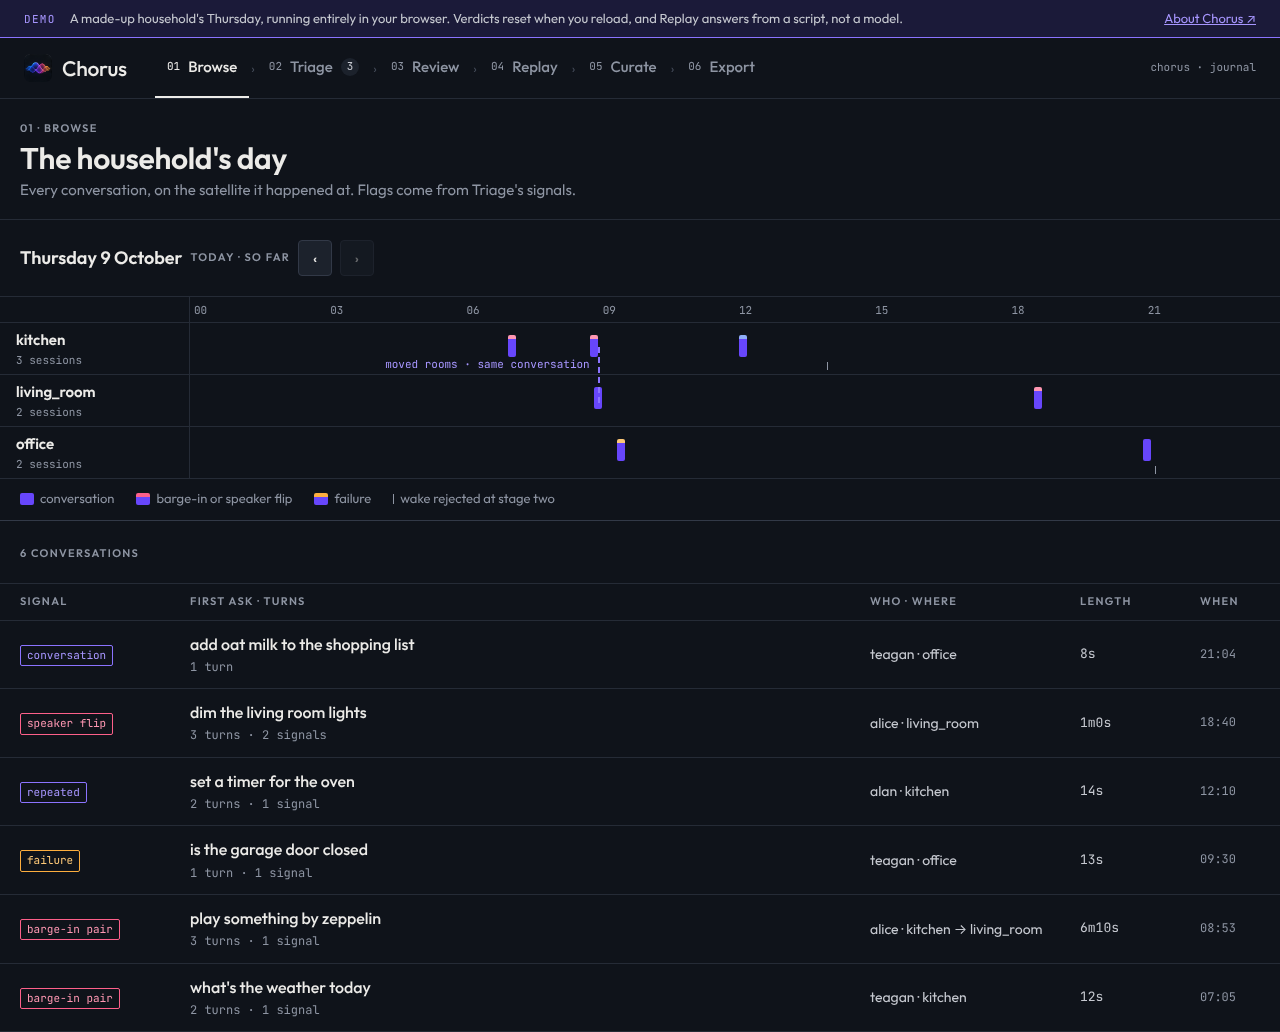
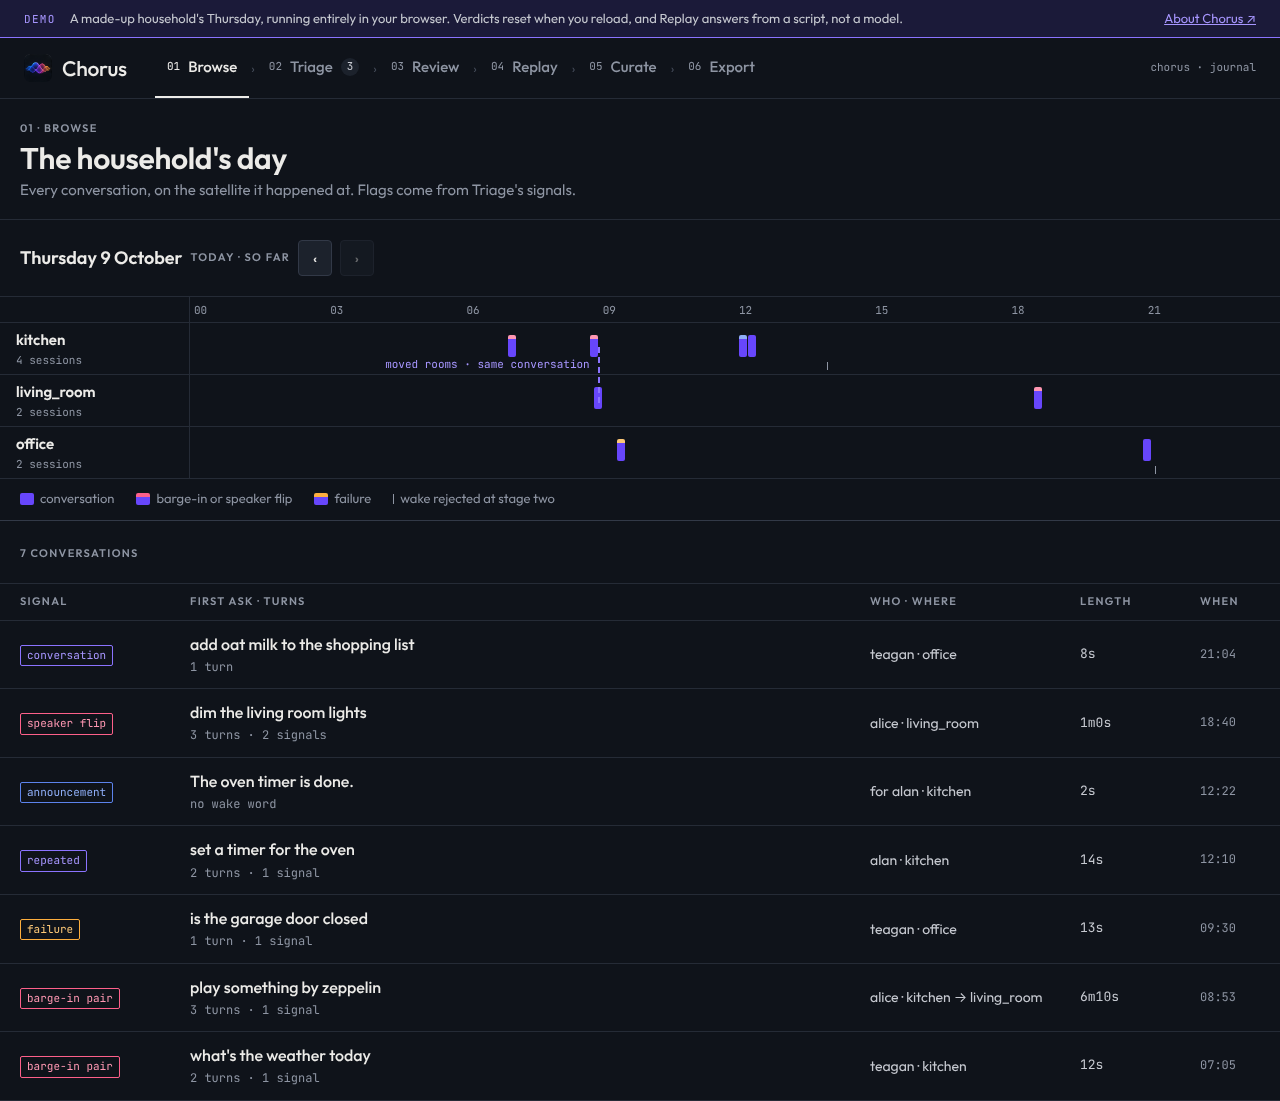
docs: ADR-0045, timers and announcements land in SPEC §14
Refreshes the Browse screenshots for the oven going off, and adds the
announcement to the review UI guide.

Claude-Session: https://claude.ai/code/session_01MT6BUSpiYFjdCDZKuiQ1yt

diff --git a/docs/adr/0045-timers-belong-to-the-house-and-an-announcement-is-a-session-with-no-wake-word.md b/docs/adr/0045-timers-belong-to-the-house-and-an-announcement-is-a-session-with-no-wake-word.md
@@ -1,0 +1,155 @@
+# 0045. Timers belong to the house, and an announcement is a session with no wake word
+
+- **Status:** accepted
+- **Source:** SPEC §4, §4.2, §4.5, §7, §8, §14 · ADR-0003, ADR-0022, ADR-0038
+
+SPEC §14 left two Phase 2 items: timers, and announcements with
+`start_conversation`. They share a problem. Both speak on a satellite when
+nobody there asked. SPEC §4 already says what that is: proactive speech is
+a session with no wake word. This ADR says how such a session opens and
+closes. It also says where a timer lives between being set and going off.
+
+```go
+import (
+	"github.com/teaganglenn/chorus/internal/journal"
+	"github.com/teaganglenn/chorus/internal/session"
+	"github.com/teaganglenn/chorus/internal/timer"
+)
+
+// What the kitchen is given when Alan's oven timer goes off: what to say,
+// why, and who set it where.
+func ovenGoesOff(t journal.Timer) session.Announcement {
+	return session.Announcement{
+		Text: timer.Says(t), Source: session.SourceTimer, TimerID: t.ID,
+		RequestedBy: t.Person, FromSatellite: t.Satellite, FromConversation: t.ConversationID,
+	}
+}
+```
+
+## Timers
+
+**A timer belongs to the house, not the conversation.** Alan sets the oven
+timer and walks away. The conversation ends, and the timer has to go off
+anyway. So `timer_started`, `timer_cancelled` and `timer_finished` go to a
+log of their own, `house:timers` (`journal.HouseTimers`). The reducer folds
+it like any other log: `State.Timers` lists each timer and its status,
+`State.Running()` lists the ones still running. A timer started twice, or
+ended twice, is a contradiction, so replay fails on it.
+
+**The log is the schedule.** At startup, `timer.Start` replays the house
+log and arms every running timer on the injected clock. A timer set before
+a restart still goes off at its `fires_at`, an absolute UTC instant
+recorded when it was set. SPEC §14 still defers session survival across a
+restart. A timer survives because it was never a session's.
+
+**It goes off where it was set.** `timer_finished` records the outcome:
+
+- `announced`, with the conversation it was said in.
+- `unannounced`, when the satellite was gone or the announcement failed.
+  A satellite that is not connected is asked again every 5 s
+  (`timer.RetryEvery`), so a kitchen that redials after a restart still
+  hears it, a few seconds late.
+- `missed`, when the timer came due more than 5 minutes ago
+  (`timer.DefaultGrace`). That only happens while chorusd was down. An
+  oven timer read out half an hour late is worse than none.
+
+Triage raises a failure on anything but `announced` (SPEC §7). A timer
+nobody heard is a failure the household felt. The failure's utterance is
+what the timer was for, and its speaker is who set it.
+
+**Three tools.** All three detach, because setting or cancelling takes
+effect the moment it is called. A barge-in keeps the result.
+
+- `timer_start` takes seconds (up to 24 hours), a label and the sentence
+  to say. Its result tells the model the id, the seconds left and what will
+  be said.
+- `timer_cancel` takes the id. A timer already going off cannot be
+  cancelled; the call says so rather than claim it was stopped.
+- `timer_list` lists every running timer in the house, with the seconds
+  left, not a clock time.
+
+The default sentence is *The oven timer is done.*, from the label, or
+*Your timer is done.* with none.
+
+## Announcements
+
+**An announcement opens a session with no wake word.**
+`Supervisor.Announce` opens it on a satellite, with `announced` set on
+`session_opened`. `announcement_made` records what is said, why
+(`timer` or `request`), and who asked from where. The speak call that says
+it follows. The model is not asked anything, and the words are its own, so
+the session has nothing to think about. It plays them and closes as
+`announced` once they have played. If an announcement on a satellite that
+is already speaking queues behind the first, both play before the close.
+
+**`start_conversation` hands the room the mic.** An announcement that asks
+a question leaves its session open, and the mic feeds it as if someone had
+woken it. Whoever answers is heard in that conversation with no wake word.
+The silence backstop closes it if nobody does (SPEC §4.5). The model is
+told what it said, and whose question it carried. Ollama sees
+`"announcement"` on that entry: its source, timer, who asked, from where,
+and whether an answer is expected.
+
+**One speaker, one speaking session.** A satellite with a session open
+says the announcement in that session, queued behind whatever it is
+saying (SPEC §4.2). The person in the room hears the timer, and their next
+ask knows it went off. An announcement plays even after a barge-in cut the
+turn's speech. The cut silences the turn it interrupted, not the house.
+On a quiet satellite, a second announcement joins the first's session
+until it closes.
+
+**The mic is not a timer's to hear.** While a session that only announces
+is speaking, a wake word on that satellite is ignored. Its words would
+otherwise answer nothing. Once the announcement has played, the satellite
+wakes as it always does. A wake that confirms during an announcement waits
+for it to finish, so the person's session opens on a silent speaker.
+
+**`announce` is the tool.** It takes the text, a room (matched to a
+satellite's room or name, ignoring case) and `start_conversation`. With no
+room it is a broadcast: every satellite but the one it was asked on. The
+result names the rooms that heard it and the ones that are not connected.
+An unknown room is refused with the rooms there are.
+
+**Announcements are not turns.** An announcement's first frame is not a
+turn's first audio, so the household's wait for an answer is not measured
+off a timer (SPEC §11). Harvest and the re-runner skip announced speak
+calls: no turn chose those words, so they are no side of a pair. The
+summary of a conversation says what was said unasked, and why.
+
+## The review UI
+
+Browse lists an announcement as its own conversation, tagged
+*announcement*, named by what it said and whom it was for. Its log shows
+the session opening to announce, why it was said, the clip and the close.
+The house log is no conversation and is not listed. Its events appear
+in the conversation they name, beside the events around them: the timer
+being set after the `timer_start` call, and its going off in the session
+that said it. A timer nobody heard opens the house log from Triage.
+
+## Considered and rejected
+
+- **A timer per conversation.** It would end with the conversation, or the
+  conversation would have to outlive everyone in it.
+- **Home Assistant's timer entities.** They need a helper per timer,
+  created ahead of time, and report going off to HA, not to the satellite
+  that heard the ask. Chorus would still need its own way to speak.
+- **Asking the model what to say when a timer goes off.** A model call
+  between the timer and the speaker adds latency, and a timer already
+  carries its sentence.
+- **Opening a second session on a busy satellite.** Two sessions would
+  speak over each other on one speaker.
+- **Saying a missed timer whenever chorusd comes back.** *The oven timer
+  is done* an hour late sends someone to a burnt oven.
+
+## Forecloses
+
+- **Timers are not shared to Home Assistant.** An HA dashboard does not
+  show them, and an HA automation cannot react to one.
+- **A timer goes off only where it was set.** Moving rooms does not move
+  it; the conversation follows the person, the timer does not.
+- **Announcements are not interruptible by a wake word.** A barge-in still
+  cuts one in a woken session. On a quiet satellite, a long announcement
+  plays out.
+- **The tool descriptions are unmeasured.** The models tier asks qwen3:14b
+  to set the oven timer, cancel it by id, and ask the kitchen a question.
+  It has not run where this was written, which has no Ollama endpoint.

diff --git a/docs/reviewui/README.md b/docs/reviewui/README.md
@@ -120,6 +120,17 @@ audio is its own row, saying how long the person waited.
 
 ![Conversation, first audio](conversation-first-audio.png)
 
+A timer going off, or someone asking for something to be said in another
+room, opens a session with no wake word (ADR-0045). Browse lists it as an
+*announcement*, named by what it said and whom it was for. Its log says why
+it was said. Timers live in the household's own log, `house:timers`, which
+Browse does not list. Its events appear in the conversations they name, as
+`house #N` rows: the timer being set beside the `timer_start` call, and its
+going off in the session that said it. A timer nobody heard is a failure in
+Triage, which opens the house log at the event.
+
+![An announcement: the oven timer going off](e2e/journey-oven-goes-off.png)
+
 ### Triage
 
 ![Triage](triage.png)
@@ -258,7 +269,8 @@ reviewer through a whole day, start to finish:
 - cancel and undo leave no verdict behind;
 - Review walks every cut in turn;
 - every Triage signal opens where it happened;
-- Browse follows a person across satellites and walks back through the days.
+- Browse follows a person across satellites and walks back through the days;
+- the oven timer goes off in an empty kitchen, and is shown set where it was.
 
 ![Journey: Browse today](e2e/journey-browse-today.png)
 ![Journey: editing the chosen side](e2e/journey-review-editing.png)

diff --git a/docs/adr/README.md b/docs/adr/README.md
@@ -53,6 +53,7 @@ decision rather than by clause: facets of one choice share one record.
 | [0042](0042-a-turn-that-ends-on-a-dangling-word-is-held.md) | Smart Turn's "finished" is checked against the words; a turn ending on *for*, *the*, *and* or a filler is held | §4.5, §11 |
 | [0043](0043-each-conversation-is-summarized-for-the-people-in-it-and-each-turn-is-told-the-time.md) | Each conversation is summarized for the people in it when it ends; each turn is told the time and the last week's conversations | §5, §8 |
 | [0044](0044-recall-chooses-by-relevance-and-recency-when-more-is-kept-than-a-turn-is-told.md) | Refines 0040 and 0043: past twenty memories or five conversations, an embedding model and recency choose what a turn is told | §5, §8, §11 |
+| [0045](0045-timers-belong-to-the-house-and-an-announcement-is-a-session-with-no-wake-word.md) | Timers belong to the house, in a log of their own; an announcement is a session with no wake word, answerable with `start_conversation` | §4, §4.2, §7, §8 |
 | [0046](0046-a-turn-that-calls-nothing-has-its-answer-spoken-from-its-content.md) | A turn that calls nothing, with its reasoning in the thinking field, has its content spoken when it ends | §4.1, §5 |
 
 SPEC §15, the decisions that cannot be retrofitted, maps to ADRs 0003, 0005,

diff --git a/README.md b/README.md
@@ -51,6 +51,7 @@ satellite. What exists today:
 | endpointing — `listen.Semantic` over `internal/provider/smartturn` and `sidecars/smartturn` (Smart Turn v3.2 on ONNX) | ends a turn ~340 ms after the last word on CPU; right on 76 of 88 synthetic household takes, not yet measured on recorded speech |
 | `internal/hass` — the one real tool (SPEC §14 item 5) | verified against Home Assistant 2026.10; unlocking a door or disarming the alarm waits for a yes |
 | `internal/listen` — the Listening child: mic stream to utterances, barge-in candidates, attribution | under test |
+| `internal/timer`, `internal/announce` — timers that go off where they were set, and announcements to other rooms, answerable with no wake word | under test; timers survive a restart |
 | `internal/harvest`, `cmd/harvest` — barge-ins as DPO candidates | under test |
 | `cmd/reviewui` — Browse, Triage, Review, Replay, Curate and Export over the journal ([guide](docs/reviewui/README.md), [demo](https://teagan42.github.io/Chorus/demo/)) | under test, in a headless Chrome too |
 | `internal/triage` — barge-ins, failures, repeated asks, slow answers and speaker flips, derived on read | under test |

diff --git a/docs/SPEC.md b/docs/SPEC.md
@@ -548,8 +548,9 @@ Phase 1's pieces run together in `chorusd` against the in-process satellite
 - MCP provider
 - ~~Confirmation gates~~ **Done — ADR-0038, ADR-0041.** Garage, gate and door
   covers are held by the class Home Assistant gives them.
-- Timers
-- Announcements with `start_conversation`
+- ~~Timers~~ **Done — ADR-0045.** A timer belongs to the house, outlives the
+  conversation and the process, and goes off where it was set.
+- ~~Announcements with `start_conversation`~~ **Done — ADR-0045.**
 - ~~Semantic endpointing~~ **Done — ADR-0036.**
 - Wake-word retraining from the harvested negative corpus
 - Near-miss buffer if false rejects surface

diff --git a/CONTRIBUTING.md b/CONTRIBUTING.md
@@ -272,6 +272,8 @@ internal/
   blob/                 the audio a journal event refers to
   registry/             generated tool registry and policy (SPEC §6)
   hass/                 Home Assistant tools
+  timer/                the household's timers, and the tools that set them (ADR-0045)
+  announce/             the announce tool: speech on other satellites (ADR-0045)
   provider/             model clients: ollama, kokoro, speaches, speakerid, smartturn (SPEC §10)
   harvest/              barge-ins as preference candidates (SPEC §9.1)
   triage/               signals worth a reviewer's time, derived on read
